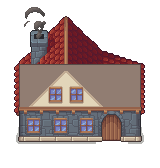
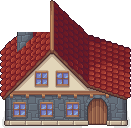
feat: massive New Home asset expansion + gameplay polish
Assets:
- Re-render house_composite.png without static smoke (131×128 at 1×)
- Extract 46 furniture items from Interior.png → /furniture/
- Extract 27 exterior items from exterior.png → /exterior_items/
- Extract 35 farm items from Plants.png + Supplies.png → /farm_items/

Catalog additions (120+ new items):
- Furniture: wardrobe, bed, chairs, tables, rugs, bookshelves, dining set,
  weapon racks, barrels, decorative items, etc.
- Exterior: fences, gate, stone path, hedges, well, fountain, rocks, trees
- Farm: fruit/palm trees, shrubs, ground plants, 17 produce crates

Gameplay:
- Animated chimney smoke using Smoke_animation.png (6-frame loop at 7fps)
- House depth now Y-sorted so player walks behind the roof correctly
- House wall collision: player cannot walk through the building body
- Placed entity collision: player blocked by base footprint of placed items
- Indoor walkable area: corrected bounds to match actual TMX wall tiles
- Indoor preload expanded to include Furniture category

diff --git a/app/games/new-home/page.tsx b/app/games/new-home/page.tsx
@@ -98,6 +98,109 @@ const CATALOG: AssetDef[] = [
   { id: "plant_simple", label: "Green Plant",   category: "Indoor", path: `${NH}/bushes/Assets/Bush_simple1_1.png`,       scale: 0.55 },
   { id: "decor_rock_s", label: "Stone",         category: "Indoor", path: `${NH}/rocks/Objects_separately/Rock3_1.png`,   scale: 0.45 },
   { id: "decor_rock_m", label: "Pebble",        category: "Indoor", path: `${NH}/rocks/Objects_separately/Rock5_1.png`,   scale: 0.4  },
+
+  // ── Furniture ───────────────────────────────────────────────────────────────
+  { id: "furn_wardrobe",      label: "Wardrobe",          category: "Furniture", path: `${NH}/furniture/wardrobe.png`,        scale: 3 },
+  { id: "furn_bed",           label: "Bed",               category: "Furniture", path: `${NH}/furniture/bed.png`,             scale: 3 },
+  { id: "furn_cabinet_tall",  label: "Tall Cabinet",      category: "Furniture", path: `${NH}/furniture/cabinet_tall.png`,    scale: 3 },
+  { id: "furn_cabinet_alt",   label: "Cabinet",           category: "Furniture", path: `${NH}/furniture/cabinet_alt.png`,     scale: 3 },
+  { id: "furn_chest",         label: "Chest of Drawers",  category: "Furniture", path: `${NH}/furniture/chest.png`,           scale: 3 },
+  { id: "furn_display_table", label: "Display Table",     category: "Furniture", path: `${NH}/furniture/display_table.png`,   scale: 3 },
+  { id: "furn_dresser",       label: "Dresser",           category: "Furniture", path: `${NH}/furniture/dresser.png`,         scale: 3 },
+  { id: "furn_barrel_large",  label: "Barrel",            category: "Furniture", path: `${NH}/furniture/barrel_large.png`,    scale: 3 },
+  { id: "furn_barrel_small",  label: "Small Barrel",      category: "Furniture", path: `${NH}/furniture/barrel_small.png`,    scale: 3 },
+  { id: "furn_shelf_produce", label: "Produce Shelf",     category: "Furniture", path: `${NH}/furniture/shelf_produce.png`,   scale: 3 },
+  { id: "furn_shelf_empty",   label: "Empty Shelf",       category: "Furniture", path: `${NH}/furniture/shelf_empty.png`,     scale: 3 },
+  { id: "furn_bookshelf",     label: "Bookshelf",         category: "Furniture", path: `${NH}/furniture/bookshelf.png`,       scale: 3 },
+  { id: "furn_bookshelf_full",label: "Full Bookshelf",    category: "Furniture", path: `${NH}/furniture/bookshelf_full.png`,  scale: 3 },
+  { id: "furn_bench",         label: "Bench",             category: "Furniture", path: `${NH}/furniture/bench.png`,           scale: 3 },
+  { id: "furn_armchair",      label: "Armchair",          category: "Furniture", path: `${NH}/furniture/armchair.png`,        scale: 3 },
+  { id: "furn_weapon_rack",   label: "Weapon Rack",       category: "Furniture", path: `${NH}/furniture/weapon_rack.png`,     scale: 3 },
+  { id: "furn_weapon_rack_f", label: "Armed Rack",        category: "Furniture", path: `${NH}/furniture/weapon_rack_full.png`,scale: 3 },
+  { id: "furn_chair_side",    label: "Chair",             category: "Furniture", path: `${NH}/furniture/chair_side.png`,      scale: 3 },
+  { id: "furn_dining_set",    label: "Dining Set",        category: "Furniture", path: `${NH}/furniture/dining_set.png`,      scale: 3 },
+  { id: "furn_table_round",   label: "Round Table",       category: "Furniture", path: `${NH}/furniture/table_round.png`,     scale: 3 },
+  { id: "furn_stool",         label: "Stool",             category: "Furniture", path: `${NH}/furniture/stool.png`,           scale: 3 },
+  { id: "furn_plant_leafy",   label: "Leafy Plant",       category: "Furniture", path: `${NH}/furniture/plant_leafy.png`,     scale: 3 },
+  { id: "furn_garlic_hang",   label: "Hanging Garlic",    category: "Furniture", path: `${NH}/furniture/garlic_hang.png`,     scale: 3 },
+  { id: "furn_rug_oval",      label: "Oval Rug",          category: "Furniture", path: `${NH}/furniture/rug_oval.png`,        scale: 3 },
+  { id: "furn_rug_round",     label: "Round Rug",         category: "Furniture", path: `${NH}/furniture/rug_round.png`,       scale: 3 },
+  { id: "furn_rug_runner",    label: "Runner Rug",        category: "Furniture", path: `${NH}/furniture/rug_runner.png`,      scale: 3 },
+  { id: "furn_rug_rect",      label: "Rectangle Rug",     category: "Furniture", path: `${NH}/furniture/rug_rect.png`,        scale: 3 },
+  { id: "furn_sword_long",    label: "Longsword",         category: "Furniture", path: `${NH}/furniture/sword_long.png`,      scale: 3 },
+  { id: "furn_sword_short",   label: "Sword",             category: "Furniture", path: `${NH}/furniture/sword_short.png`,     scale: 3 },
+  { id: "furn_deco_flower",   label: "Flower Vase",       category: "Furniture", path: `${NH}/furniture/deco_flower.png`,     scale: 3 },
+  { id: "furn_deco_jug",      label: "Jug",               category: "Furniture", path: `${NH}/furniture/deco_jug.png`,        scale: 3 },
+  { id: "furn_deco_plant_b",  label: "Plant Pot",         category: "Furniture", path: `${NH}/furniture/deco_plant_big.png`,  scale: 3 },
+  { id: "furn_deco_plant_p",  label: "Small Plant",       category: "Furniture", path: `${NH}/furniture/deco_plant_pot.png`,  scale: 3 },
+  { id: "furn_deco_crystal_g",label: "Green Crystal",     category: "Furniture", path: `${NH}/furniture/deco_crystal_g.png`,  scale: 3 },
+  { id: "furn_deco_crystal_r",label: "Red Crystal",       category: "Furniture", path: `${NH}/furniture/deco_crystal_r.png`,  scale: 3 },
+  { id: "furn_deco_candle",   label: "Candle",            category: "Furniture", path: `${NH}/furniture/deco_candle.png`,     scale: 3 },
+  { id: "furn_deco_ball",     label: "Decorative Ball",   category: "Furniture", path: `${NH}/furniture/deco_ball.png`,       scale: 3 },
+  { id: "furn_deco_mushroom", label: "Mushroom Bunch",    category: "Furniture", path: `${NH}/furniture/deco_mushroom.png`,   scale: 3 },
+  { id: "furn_deco_onion",    label: "Onion Bunch",       category: "Furniture", path: `${NH}/furniture/deco_onion.png`,      scale: 3 },
+
+  // ── Exterior Decorations ────────────────────────────────────────────────────
+  { id: "ext_fence_h",        label: "Fence (H)",         category: "Exterior",  path: `${NH}/exterior_items/fence_h.png`,        scale: 3 },
+  { id: "ext_fence_v",        label: "Fence (V)",         category: "Exterior",  path: `${NH}/exterior_items/fence_v.png`,        scale: 3 },
+  { id: "ext_fence_gate",     label: "Gate",              category: "Exterior",  path: `${NH}/exterior_items/fence_gate.png`,     scale: 3 },
+  { id: "ext_path_stone",     label: "Stone Path",        category: "Exterior",  path: `${NH}/exterior_items/path_stone.png`,     scale: 3 },
+  { id: "ext_path_corner",    label: "Path Corner",       category: "Exterior",  path: `${NH}/exterior_items/path_corner.png`,    scale: 3 },
+  { id: "ext_stone_wall",     label: "Stone Wall",        category: "Exterior",  path: `${NH}/exterior_items/stone_wall.png`,     scale: 3 },
+  { id: "ext_hedge_large",    label: "Large Hedge",       category: "Exterior",  path: `${NH}/exterior_items/hedge_large.png`,    scale: 3 },
+  { id: "ext_hedge_med",      label: "Flower Hedge",      category: "Exterior",  path: `${NH}/exterior_items/hedge_med.png`,      scale: 3 },
+  { id: "ext_hedge_round",    label: "Round Hedge",       category: "Exterior",  path: `${NH}/exterior_items/hedge_round.png`,    scale: 3 },
+  { id: "ext_apple_tree",     label: "Apple Tree",        category: "Exterior",  path: `${NH}/exterior_items/ext_apple_tree.png`, scale: 3 },
+  { id: "ext_fruit_tree",     label: "Berry Tree",        category: "Exterior",  path: `${NH}/exterior_items/ext_fruit_tree.png`, scale: 3 },
+  { id: "ext_tree_lg",        label: "Large Tree",        category: "Exterior",  path: `${NH}/exterior_items/ext_tree_lg.png`,    scale: 3 },
+  { id: "ext_rock_pile_1",    label: "Rock Pile",         category: "Exterior",  path: `${NH}/exterior_items/rock_pile_1.png`,    scale: 3 },
+  { id: "ext_rock_pile_2",    label: "Rock Pile 2",       category: "Exterior",  path: `${NH}/exterior_items/rock_pile_2.png`,    scale: 3 },
+  { id: "ext_rock_pile_3",    label: "Boulder",           category: "Exterior",  path: `${NH}/exterior_items/rock_pile_3.png`,    scale: 3 },
+  { id: "ext_rock_small_1",   label: "Small Rock",        category: "Exterior",  path: `${NH}/exterior_items/rock_small_1.png`,   scale: 3 },
+  { id: "ext_rock_small_2",   label: "Small Rock 2",      category: "Exterior",  path: `${NH}/exterior_items/rock_small_2.png`,   scale: 3 },
+  { id: "ext_rock_small_3",   label: "Pebbles",           category: "Exterior",  path: `${NH}/exterior_items/rock_small_3.png`,   scale: 3 },
+  { id: "ext_well",           label: "Well",              category: "Exterior",  path: `${NH}/exterior_items/well.png`,           scale: 3 },
+  { id: "ext_mushroom_group", label: "Mushroom Patch",    category: "Exterior",  path: `${NH}/exterior_items/mushroom_group.png`, scale: 3 },
+  { id: "ext_mushroom_red",   label: "Red Mushrooms",     category: "Exterior",  path: `${NH}/exterior_items/mushroom_red.png`,   scale: 3 },
+  { id: "ext_fountain",       label: "Fountain",          category: "Exterior",  path: `${NH}/exterior_items/fountain.png`,       scale: 3 },
+  { id: "ext_flower_patch",   label: "Flower Patch",      category: "Exterior",  path: `${NH}/exterior_items/flower_patch.png`,   scale: 3 },
+  { id: "ext_flower_small",   label: "Small Flowers",     category: "Exterior",  path: `${NH}/exterior_items/flower_small.png`,   scale: 3 },
+  { id: "ext_grass_tuft",     label: "Grass Tuft",        category: "Exterior",  path: `${NH}/exterior_items/grass_tuft_1.png`,   scale: 3 },
+  { id: "ext_herbs",          label: "Herbs",             category: "Exterior",  path: `${NH}/exterior_items/herbs.png`,          scale: 3 },
+  { id: "ext_bush_small",     label: "Small Bush",        category: "Exterior",  path: `${NH}/exterior_items/ext_bush_small.png`, scale: 3 },
+
+  // ── Farm ────────────────────────────────────────────────────────────────────
+  { id: "farm_apple_tree",    label: "Farm Apple Tree",   category: "Farm",  path: `${NH}/farm_items/farm_apple_tree.png`,    scale: 1.2 },
+  { id: "farm_berry_tree",    label: "Berry Tree",        category: "Farm",  path: `${NH}/farm_items/farm_berry_tree.png`,    scale: 1.2 },
+  { id: "farm_citrus_tree",   label: "Citrus Tree",       category: "Farm",  path: `${NH}/farm_items/farm_citrus_tree.png`,   scale: 1.2 },
+  { id: "farm_fruit_tree2",   label: "Fruit Tree",        category: "Farm",  path: `${NH}/farm_items/farm_fruit_tree2.png`,   scale: 1.2 },
+  { id: "farm_green_tree",    label: "Green Tree",        category: "Farm",  path: `${NH}/farm_items/farm_green_tree.png`,    scale: 1.2 },
+  { id: "farm_palm_1",        label: "Palm Tree",         category: "Farm",  path: `${NH}/farm_items/farm_palm_1.png`,        scale: 1.2 },
+  { id: "farm_palm_2",        label: "Palm Tree 2",       category: "Farm",  path: `${NH}/farm_items/farm_palm_2.png`,        scale: 1.2 },
+  { id: "farm_palm_3",        label: "Palm Tree 3",       category: "Farm",  path: `${NH}/farm_items/farm_palm_3.png`,        scale: 1.2 },
+  { id: "farm_shrub_1",       label: "Farm Shrub",        category: "Farm",  path: `${NH}/farm_items/farm_shrub_1.png`,       scale: 1.2 },
+  { id: "farm_shrub_2",       label: "Farm Shrub 2",      category: "Farm",  path: `${NH}/farm_items/farm_shrub_2.png`,       scale: 1.2 },
+  { id: "farm_plant_small",   label: "Small Plant",       category: "Farm",  path: `${NH}/farm_items/farm_plant_small.png`,   scale: 1.5 },
+  { id: "farm_flower_1",      label: "Farm Flower",       category: "Farm",  path: `${NH}/farm_items/farm_flower_1.png`,      scale: 1.5 },
+  { id: "farm_flower_2",      label: "Farm Flower 2",     category: "Farm",  path: `${NH}/farm_items/farm_flower_2.png`,      scale: 1.5 },
+  { id: "farm_grass",         label: "Farm Grass",        category: "Farm",  path: `${NH}/farm_items/farm_grass.png`,         scale: 1.5 },
+  { id: "farm_mushroom_s",    label: "Mushroom",          category: "Farm",  path: `${NH}/farm_items/farm_mushroom_s.png`,    scale: 1.5 },
+  { id: "farm_wildflower",    label: "Wildflowers",       category: "Farm",  path: `${NH}/farm_items/farm_wildflower.png`,    scale: 1.5 },
+  { id: "farm_sunflower",     label: "Sunflower",         category: "Farm",  path: `${NH}/farm_items/farm_sunflower.png`,     scale: 1.5 },
+  { id: "farm_banana_crate",  label: "Banana Crate",      category: "Farm",  path: `${NH}/farm_items/banana_crate.png`,       scale: 3   },
+  { id: "farm_pineapple",     label: "Pineapple Crate",   category: "Farm",  path: `${NH}/farm_items/pineapple_crate.png`,    scale: 3   },
+  { id: "farm_melon",         label: "Melon Crate",       category: "Farm",  path: `${NH}/farm_items/melon_crate.png`,        scale: 3   },
+  { id: "farm_corn",          label: "Corn Crate",        category: "Farm",  path: `${NH}/farm_items/corn_crate.png`,         scale: 3   },
+  { id: "farm_garlic",        label: "Garlic Crate",      category: "Farm",  path: `${NH}/farm_items/garlic_crate.png`,       scale: 3   },
+  { id: "farm_potato",        label: "Potato Crate",      category: "Farm",  path: `${NH}/farm_items/potato_crate.png`,       scale: 3   },
+  { id: "farm_grape",         label: "Grape Crate",       category: "Farm",  path: `${NH}/farm_items/grape_crate.png`,        scale: 3   },
+  { id: "farm_tomato",        label: "Tomato Crate",      category: "Farm",  path: `${NH}/farm_items/tomato_crate.png`,       scale: 3   },
+  { id: "farm_greens",        label: "Greens Crate",      category: "Farm",  path: `${NH}/farm_items/greens_crate.png`,       scale: 3   },
+  { id: "farm_pepper",        label: "Pepper Crate",      category: "Farm",  path: `${NH}/farm_items/pepper_crate.png`,       scale: 3   },
+  { id: "farm_onion",         label: "Onion Crate",       category: "Farm",  path: `${NH}/farm_items/onion_crate.png`,        scale: 3   },
+  { id: "farm_spinach",       label: "Spinach Crate",     category: "Farm",  path: `${NH}/farm_items/spinach_crate.png`,      scale: 3   },
+  { id: "farm_orange",        label: "Orange Crate",      category: "Farm",  path: `${NH}/farm_items/orange_crate.png`,       scale: 3   },
+  { id: "farm_strawberry",    label: "Strawberry Crate",  category: "Farm",  path: `${NH}/farm_items/strawberry_crate.png`,   scale: 3   },
 ];
 
 const CATALOG_MAP = Object.fromEntries(CATALOG.map(a => [a.id, a]));
@@ -191,14 +294,23 @@ export default function NewHomePage() {
 
       // ── world / house constants ────────────────────────────────────────────
       const WORLD_W = 2400, WORLD_H = 1800;
-      const HX = WORLD_W / 2, HY = WORLD_H / 2;   // house composite anchor
-      // house_composite.png: 160×168px at 1× → scaled 3× = 480×504px
-      // Door centre in composite: pixel (104, 120) → scaled (312, 360) from top-left
+      const HX = WORLD_W / 2, HY = WORLD_H / 2;
+      // house_composite.png: 131×128px at 1× (house layers only, no smoke)
+      // At 3× = 393×384px. Door approx at composite pixel (84, 116).
       const HOUSE_SCALE = 3;
-      const HOUSE_LEFT = HX - 240;   // composite origin X in world
-      const HOUSE_TOP  = HY - 350;   // composite origin Y in world
-      const DOOR_X = HOUSE_LEFT + 104 * HOUSE_SCALE;   // = HX + 72
-      const DOOR_Y = HOUSE_TOP  + 120 * HOUSE_SCALE;   // = HY + 10
+      const HOUSE_W = 131, HOUSE_H = 128;            // composite px at 1×
+      const HOUSE_LEFT = HX - Math.round(HOUSE_W * HOUSE_SCALE / 2);  // centre house at HX
+      const HOUSE_TOP  = HY - 380;
+      const DOOR_X = HOUSE_LEFT + 84 * HOUSE_SCALE;
+      const DOOR_Y = HOUSE_TOP  + 116 * HOUSE_SCALE;
+      // House wall collision rectangle (wall body, below the roof)
+      const WALL_LEFT   = HOUSE_LEFT + 5  * HOUSE_SCALE;
+      const WALL_RIGHT  = HOUSE_LEFT + 126 * HOUSE_SCALE;
+      const WALL_TOP    = HOUSE_TOP  + 52 * HOUSE_SCALE;   // below roof
+      const WALL_BOTTOM = HOUSE_TOP  + HOUSE_H * HOUSE_SCALE - 10;
+      // Smoke animation offset in world (chimney is top-left of composite)
+      const SMOKE_X = HOUSE_LEFT;
+      const SMOKE_Y = HOUSE_TOP - 30;  // smoke puffs above roof
 
       // ── character spritesheet layout ──────────────────────────────────────
       // Idle  768×256 → 64×64 frames → 12 cols × 4 rows (row=direction)
@@ -339,6 +451,8 @@ export default function NewHomePage() {
           this.load.spritesheet("char_walk", `${NH}/character/PNG/Unarmed/Without_shadow/Unarmed_Walk_without_shadow.png`, { frameWidth: FRAME_W, frameHeight: FRAME_H });
           this.load.image("grass_tile", `${NH}/grass_tile.png`);
           this.load.image("house_composite", `${NH}/house_composite.png`);
+          // Smoke animation: 288×48, 6 frames of 48×48
+          this.load.spritesheet("smoke_anim", `${NH}/home/Smoke_animation.png`, { frameWidth: 48, frameHeight: 48 });
           CATALOG.forEach(a => {
             if (!this.textures.exists(a.id)) this.load.image(a.id, a.path);
           });
@@ -357,10 +471,27 @@ export default function NewHomePage() {
           gfx.fillRect(DOOR_X - 24, DOOR_Y, 48, WORLD_H - DOOR_Y);
 
           // ── House (pixel-art composite from TMX tiles) ─────────────────────
+          // Depth is based on the house south edge (DOOR_Y) for correct Y-sorting
+          const houseDepth = 3 + DOOR_Y / 10000;
           this.add.image(HOUSE_LEFT, HOUSE_TOP, "house_composite")
             .setOrigin(0, 0)
             .setScale(HOUSE_SCALE)
-            .setDepth(2);
+            .setDepth(houseDepth);
+
+          // ── Smoke animation over chimney ──────────────────────────────────
+          if (!this.anims.exists("smoke_loop")) {
+            this.anims.create({
+              key: "smoke_loop",
+              frames: this.anims.generateFrameNumbers("smoke_anim", { start: 0, end: 5 }),
+              frameRate: 7,
+              repeat: -1,
+            });
+          }
+          this.add.sprite(SMOKE_X, SMOKE_Y, "smoke_anim")
+            .setOrigin(0, 0)
+            .setScale(HOUSE_SCALE)
+            .setDepth(houseDepth + 0.01)
+            .play("smoke_loop");
 
           // ── Placed items layer ────────────────────────────────────────────
           this.placedGroup = makePlacedGroup(this);
@@ -418,8 +549,32 @@ export default function NewHomePage() {
             if (asset) placeInGroup(this, this.placedGroup, p.assetId, wx, wy, asset.scale);
           }
 
-          // Move character
+          // Move character (store previous position for collision rollback)
+          const prevX = this.player.x, prevY = this.player.y;
           movePlayer(this.player, this.keys, 200, dt, this.dir, 10, WORLD_W - 10, 10, WORLD_H - 10);
+
+          // ── House collision (wall body below roof) ────────────────────────
+          const pFeetY = this.player.y + 16;
+          const inWallX = this.player.x > WALL_LEFT && this.player.x < WALL_RIGHT;
+          const inWallY = pFeetY > WALL_TOP && pFeetY < WALL_BOTTOM;
+          // Allow passing through only at the door opening
+          const atDoor = Math.abs(this.player.x - DOOR_X) < 30;
+          if (inWallX && inWallY && !atDoor) {
+            this.player.x = prevX;
+            this.player.y = prevY;
+          }
+
+          // ── Placed entity collision (block, allow walking behind via depth) ─
+          for (const child of this.placedGroup.getChildren()) {
+            const obj = child as Phaser.GameObjects.Image;
+            const hw = obj.displayWidth  * 0.25;
+            const hh = obj.displayHeight * 0.15;
+            if (Math.abs(this.player.x - obj.x) < hw && Math.abs(pFeetY - obj.y) < hh) {
+              this.player.x = prevX;
+              this.player.y = prevY;
+              break;
+            }
+          }
 
           // Keep placed items depth-sorted by Y
           this.placedGroup.getChildren().forEach(c => {
@@ -459,7 +614,8 @@ export default function NewHomePage() {
           });
           if (!this.textures.exists("interior_floor"))
             this.load.image("interior_floor", `${NH}/interior_floor.png`);
-          CATALOG.filter(a => a.category === "Indoor").forEach(a => {
+          // Preload all indoor-relevant assets (Indoor + Furniture categories)
+          CATALOG.filter(a => a.category === "Indoor" || a.category === "Furniture").forEach(a => {
             if (!this.textures.exists(a.id)) this.load.image(a.id, a.path);
           });
         }
@@ -524,12 +680,16 @@ export default function NewHomePage() {
             if (asset) placeInGroup(this, this.placedGroup, p.assetId, p.sx, p.sy, asset.scale);
           }
 
+          // interior_floor.png is 416×352. Wall tiles occupy ~4 rows (64px) top,
+          // ~2 cols (32px) each side, ~2 rows (32px) bottom.
           const iScaleMove = Math.min(W / 416, H / 352);
           const iWMove = Math.round(416 * iScaleMove), iHMove = Math.round(352 * iScaleMove);
-          const left   = (W - iWMove) / 2 + 16;
-          const right  = (W + iWMove) / 2 - 16;
-          const top    = (H - iHMove) / 2 + Math.round(iHMove * 0.25); // below wall
-          const bottom = (H + iHMove) / 2 - 16;
+          const iLeft  = (W - iWMove) / 2;
+          const iTop   = (H - iHMove) / 2;
+          const left   = iLeft  + Math.round(36 * iScaleMove);   // ~2 wall tiles + margin
+          const right  = iLeft  + iWMove - Math.round(36 * iScaleMove);
+          const top    = iTop   + Math.round(72 * iScaleMove);   // ~4.5 wall tile rows
+          const bottom = iTop   + iHMove - Math.round(32 * iScaleMove);
           movePlayer(this.player, this.keys, 180, dt, this.dir, left, right, top, bottom);
 
           // Depth-sort placed items
